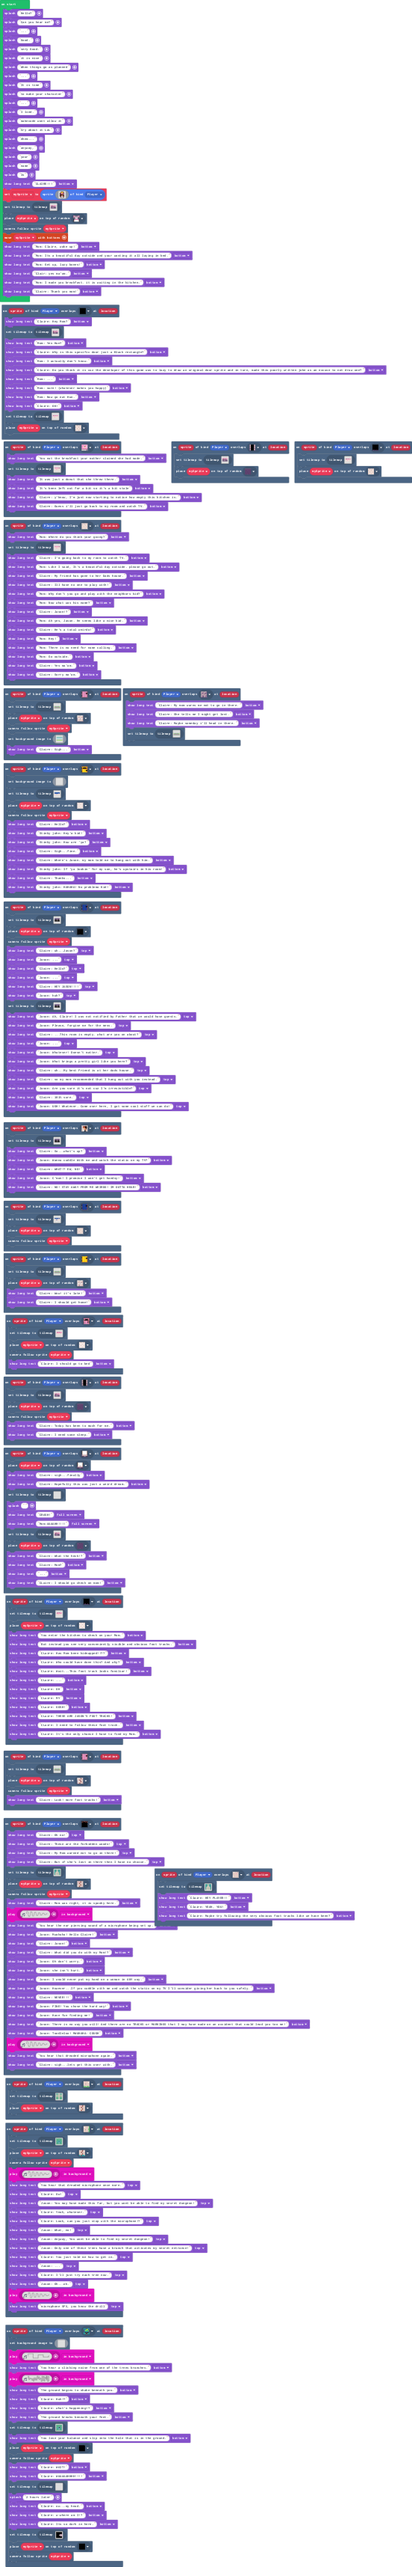
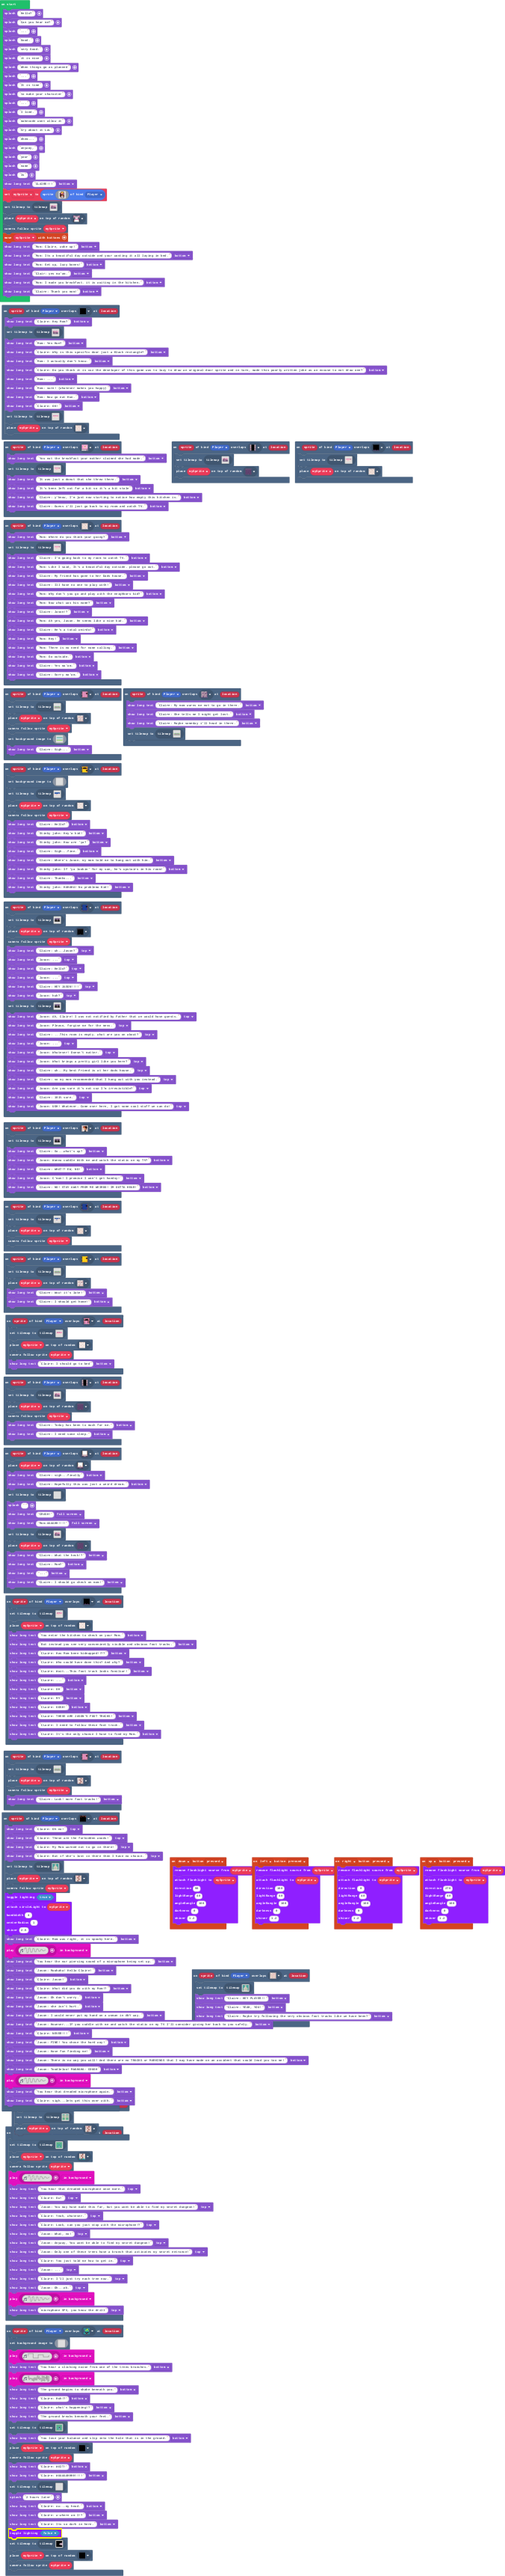
Update pxt.json, main.blocks, main.ts

diff --git a/main.ts b/main.ts
@@ -21,6 +21,17 @@ scene.onOverlapTile(SpriteKind.Player, assets.tile`myTile72`, function (sprite, 
     game.showLongText("Jason: C'mon! I promise I won't get handsy~", DialogLayout.Bottom)
     game.showLongText("Claire: NO! STAY AWAY FROM ME WEIRDO! IM OUTTA HEAR!", DialogLayout.Bottom)
 })
+controller.up.onEvent(ControllerButtonEvent.Pressed, function () {
+    multilights.removeFlashlightSource(mySprite)
+    multilights.addFlashLightSource(
+    mySprite,
+    270,
+    40,
+    100,
+    0,
+    1.2
+    )
+})
 scene.onOverlapTile(SpriteKind.Player, assets.tile`myTile94`, function (sprite, location) {
     tiles.setCurrentTilemap(tilemap`Outside find who took mom`)
     tiles.placeOnRandomTile(mySprite, assets.tile`myTile95`)
@@ -35,6 +46,13 @@ scene.onOverlapTile(SpriteKind.Player, sprites.builtin.forestTiles6, function (s
     tiles.setCurrentTilemap(tilemap`Forest that doesnt actually have any other paths`)
     tiles.placeOnRandomTile(mySprite, assets.tile`myTile106`)
     scene.cameraFollowSprite(mySprite)
+    multilights.toggleLighting(true)
+    multilights.addLightSource(
+    mySprite,
+    4,
+    1,
+    2.5
+    )
     game.showLongText("Claire: Mom was right, it is spooky here.", DialogLayout.Bottom)
     music.play(music.createSoundEffect(WaveShape.Sine, 3907, 3822, 255, 0, 2000, SoundExpressionEffect.None, InterpolationCurve.Curve), music.PlaybackMode.InBackground)
     game.showLongText("You hear the ear piercing sound of a microphone being set up.", DialogLayout.Bottom)
@@ -53,6 +71,17 @@ scene.onOverlapTile(SpriteKind.Player, sprites.builtin.forestTiles6, function (s
     music.play(music.createSoundEffect(WaveShape.Sine, 3907, 3822, 255, 0, 2000, SoundExpressionEffect.None, InterpolationCurve.Curve), music.PlaybackMode.InBackground)
     game.showLongText("You hear that dreaded microphone again.", DialogLayout.Bottom)
     game.showLongText("Claire: sigh...lets get this over with.", DialogLayout.Bottom)
+})
+controller.left.onEvent(ControllerButtonEvent.Pressed, function () {
+    multilights.removeFlashlightSource(mySprite)
+    multilights.addFlashLightSource(
+    mySprite,
+    180,
+    40,
+    100,
+    0,
+    1.2
+    )
 })
 scene.onOverlapTile(SpriteKind.Player, assets.tile`myTile42`, function (sprite, location) {
     game.showLongText("You eat the breakfast your mother claimed she had made.", DialogLayout.Bottom)
@@ -92,6 +121,17 @@ scene.onOverlapTile(SpriteKind.Player, assets.tile`myTile90`, function (sprite, 
     game.showLongText("CLaire: I need to follow these foot track.", DialogLayout.Bottom)
     game.showLongText("CLaire: It's the only chance I have to find my Mom.", DialogLayout.Bottom)
 })
+controller.right.onEvent(ControllerButtonEvent.Pressed, function () {
+    multilights.removeFlashlightSource(mySprite)
+    multilights.addFlashLightSource(
+    mySprite,
+    0,
+    40,
+    100,
+    0,
+    1.2
+    )
+})
 scene.onOverlapTile(SpriteKind.Player, assets.tile`myTile17`, function (sprite, location) {
     tiles.setCurrentTilemap(tilemap`Kitchen after touching grass`)
     tiles.placeOnRandomTile(mySprite, assets.tile`myTile49`)
@@ -116,6 +156,7 @@ scene.onOverlapTile(SpriteKind.Player, assets.tile`myTile111`, function (sprite,
     game.showLongText("Claire: ow...my head.", DialogLayout.Bottom)
     game.showLongText("Claire: w-where am I!?", DialogLayout.Bottom)
     game.showLongText("Claire: Its so dark in here.", DialogLayout.Bottom)
+    multilights.toggleLighting(false)
     tiles.setCurrentTilemap(tilemap`Dungeon level dark`)
     tiles.placeOnRandomTile(mySprite, assets.tile`myTile118`)
     scene.cameraFollowSprite(mySprite)
@@ -272,6 +313,17 @@ scene.onOverlapTile(SpriteKind.Player, assets.tile`myTile52`, function (sprite, 
     game.showLongText("Mom: Go outside.", DialogLayout.Bottom)
     game.showLongText("Claire: Yes ma'am.", DialogLayout.Bottom)
     game.showLongText("Claire: Sorry ma'am.", DialogLayout.Bottom)
+})
+controller.down.onEvent(ControllerButtonEvent.Pressed, function () {
+    multilights.removeFlashlightSource(mySprite)
+    multilights.addFlashLightSource(
+    mySprite,
+    90,
+    40,
+    100,
+    0,
+    1.2
+    )
 })
 scene.onOverlapTile(SpriteKind.Player, assets.tile`myTile75`, function (sprite, location) {
     tiles.setCurrentTilemap(tilemap`stinky john is gone`)
